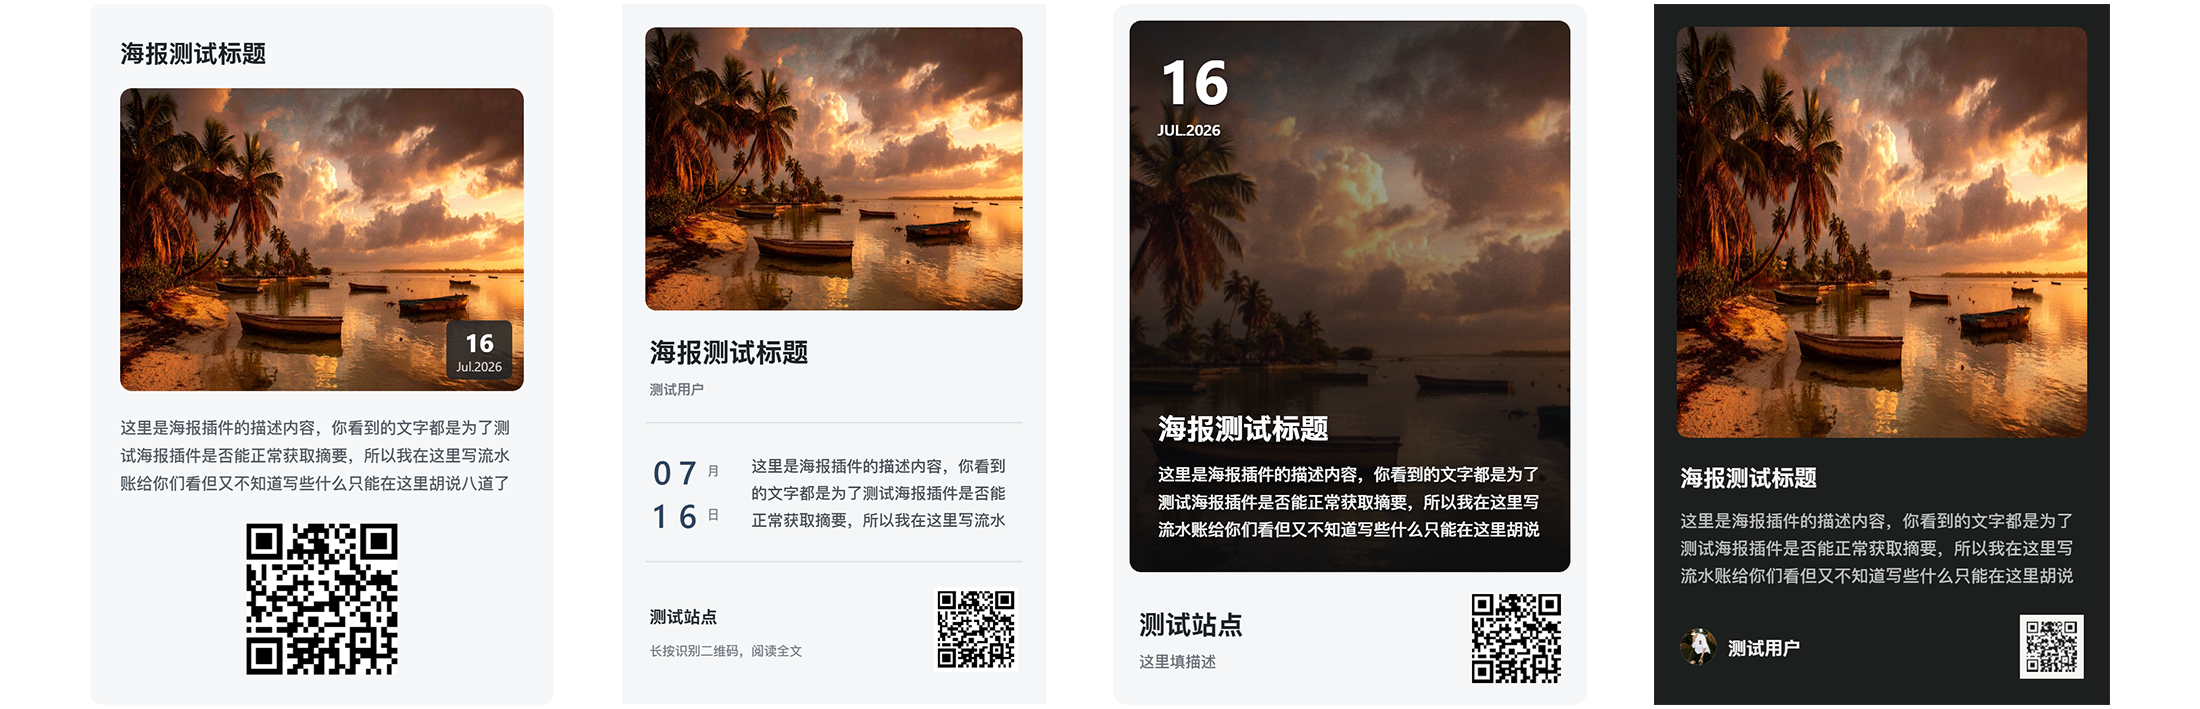
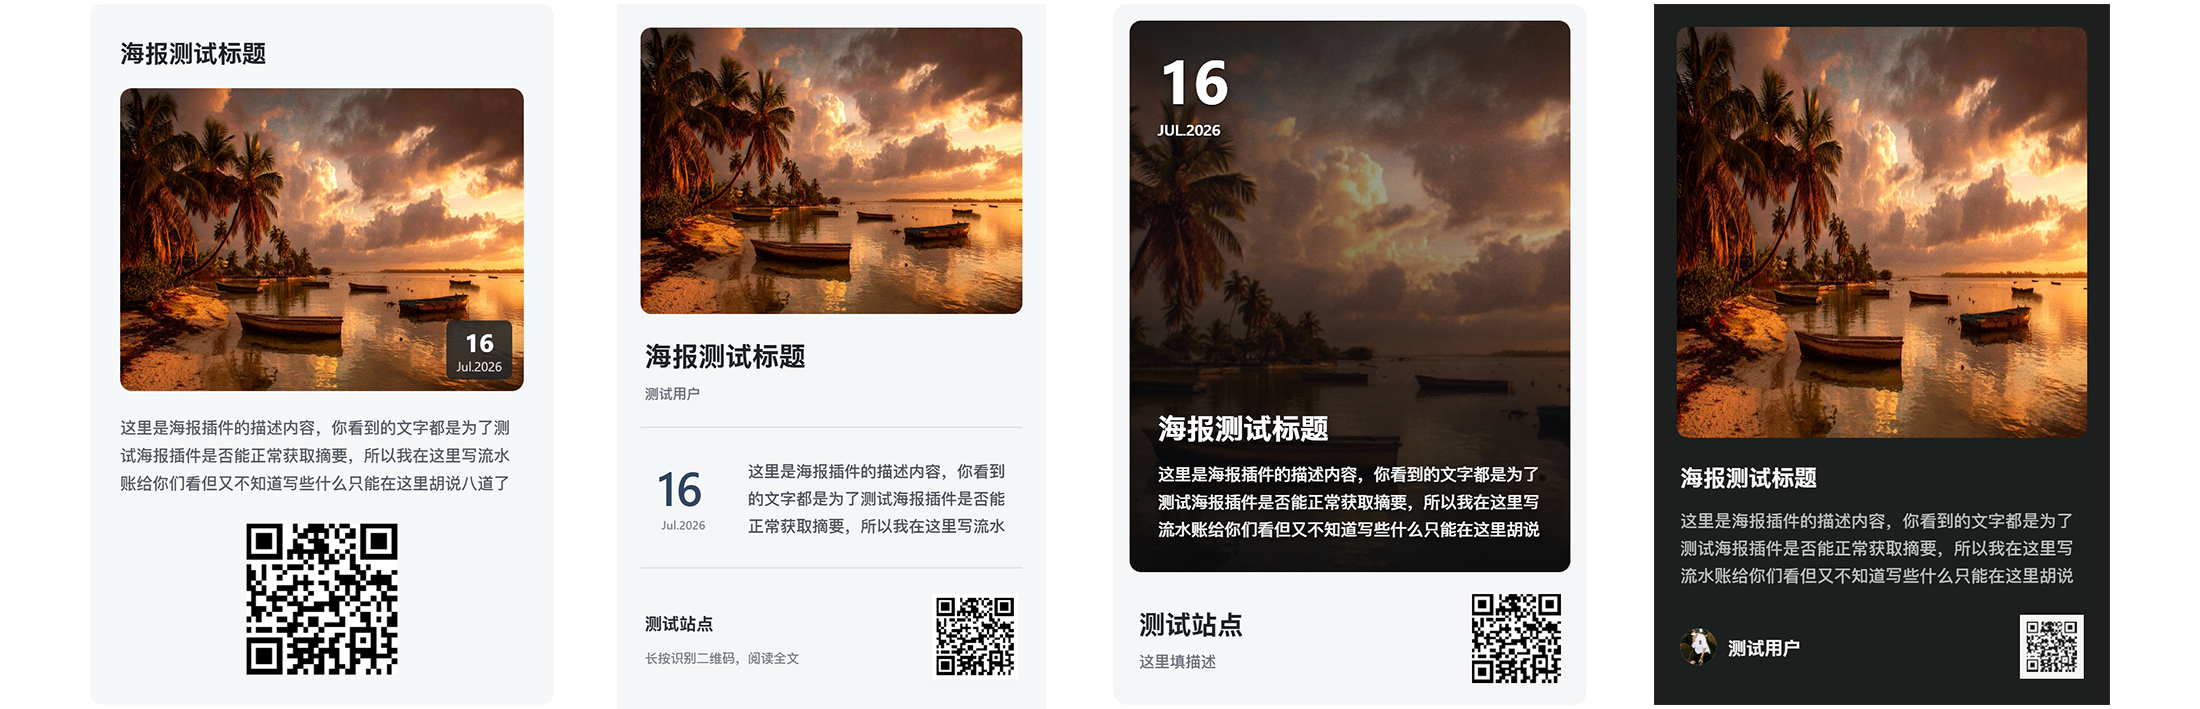
网易云样式日期优化

diff --git a/assets/teposter.js b/assets/teposter.js
@@ -1005,34 +1005,19 @@
     // 3. Date and excerpt
     var middleArea = createEl('div', 'netease-middle');
 
-    // Date (two rows and two aligned digit columns)
+    // Date follows the default layout: day above, month and year below.
     var dateWrap = createEl('div', 'netease-date-wrap');
     var d = getPostDate() || new Date();
     var day = String(d.getDate());
-    var month = String(d.getMonth() + 1); // 1-12
-    if (month.length < 2) month = '0' + month;
     if (day.length < 2) day = '0' + day;
-
-    function createDateLine(value, unitText) {
-      var line = createEl('div', 'netease-date-line');
-      var digits = createEl('div', 'netease-date-digits');
-      for (var i = 0; i < 2; i++) {
-        var digit = createEl('span', 'netease-date-digit');
-        digit.textContent = value.charAt(i);
-        digits.appendChild(digit);
-      }
-      var unit = createEl('span', 'netease-date-unit');
-      unit.textContent = unitText;
-      line.appendChild(digits);
-      line.appendChild(unit);
-      return line;
-    }
-
-    var monthLine = createDateLine(month, '月');
-    var dayLine = createDateLine(day, '日');
-
-    dateWrap.appendChild(monthLine);
-    dateWrap.appendChild(dayLine);
+    var months = ['Jan', 'Feb', 'Mar', 'Apr', 'May', 'Jun', 'Jul', 'Aug', 'Sep', 'Oct', 'Nov', 'Dec'];
+    var monthYear = months[d.getMonth()] + '.' + d.getFullYear();
+    var dateDay = createEl('div', 'netease-date-day');
+    var dateMonthYear = createEl('div', 'netease-date-monthyear');
+    dateDay.textContent = day;
+    dateMonthYear.textContent = monthYear;
+    dateWrap.appendChild(dateDay);
+    dateWrap.appendChild(dateMonthYear);
 
     // Article excerpt
     var descWrap = createEl('div', 'netease-desc-wrap');

diff --git a/assets/teposter.css b/assets/teposter.css
@@ -599,37 +599,27 @@
 }
 
 .teposter-netease .netease-date-wrap {
-  display: grid;
-  grid-template-rows: repeat(2, 34px);
-  row-gap: 7px;
-}
-
-.teposter-netease .netease-date-line {
-  display: grid;
-  grid-template-columns: 48px 16px;
-  column-gap: 6px;
+  min-width: 72px;
+  display: flex;
+  flex-direction: column;
   align-items: center;
-}
-
-.teposter-netease .netease-date-digits {
-  display: grid;
-  grid-template-columns: repeat(2, 24px);
+  justify-content: center;
+  text-align: center;
   font-variant-numeric: tabular-nums;
 }
 
-.teposter-netease .netease-date-digit {
-  display: block;
+.teposter-netease .netease-date-day {
   color: #30465f;
-  font-size: 31px;
+  font-size: 44px;
   font-weight: 600;
-  line-height: 1;
-  text-align: center;
+  line-height: 0.92;
 }
 
-.teposter-netease .netease-date-unit {
+.teposter-netease .netease-date-monthyear {
+  margin-top: 9px;
   color: #858b92;
-  font-size: 12px;
-  font-weight: 500;
+  font-size: 11px;
+  font-weight: 600;
   line-height: 1;
 }
 

diff --git a/Plugin.php b/Plugin.php
@@ -459,12 +459,12 @@ TEPOSTER_ADMIN;
 			'assetSource' => $assetSource,
 		];
 
-		echo '<link rel="stylesheet" href="' . $cfg['assetsBase'] . '/teposter.css?v=20" />' . "\n";
+		echo '<link rel="stylesheet" href="' . $cfg['assetsBase'] . '/teposter.css?v=21" />' . "\n";
 		if (!empty($pluginOptions->customCss)) {
 			echo '<style id="teposter-custom-css">' . $pluginOptions->customCss . '</style>' . "\n";
 		}
 
 		echo '<script>window.TEPosterConfig = ' . json_encode($cfg, JSON_UNESCAPED_UNICODE | JSON_HEX_TAG | JSON_HEX_AMP | JSON_HEX_APOS | JSON_HEX_QUOT) . ';</script>' . "\n";
-		echo '<script src="' . $cfg['assetsBase'] . '/teposter.js?v=25"></script>' . "\n";
+		echo '<script src="' . $cfg['assetsBase'] . '/teposter.js?v=26"></script>' . "\n";
 	}
 }
